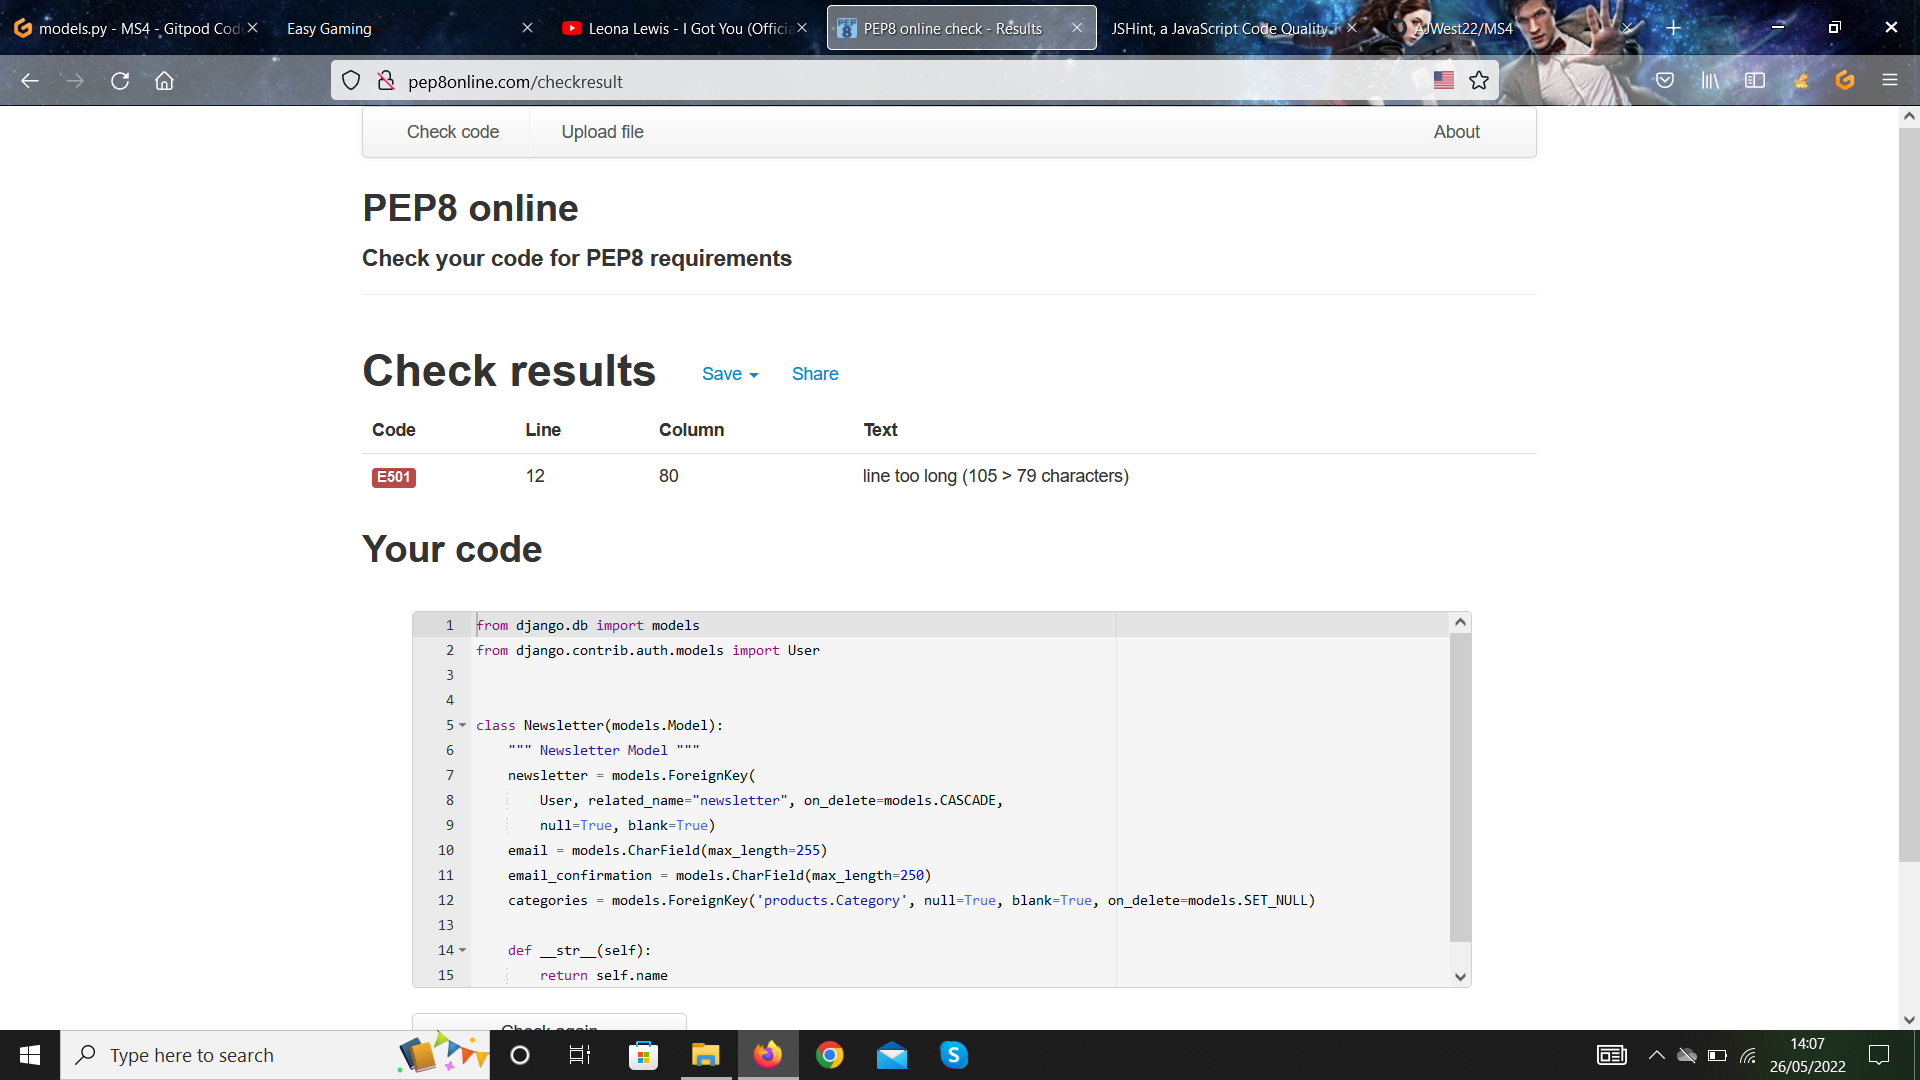
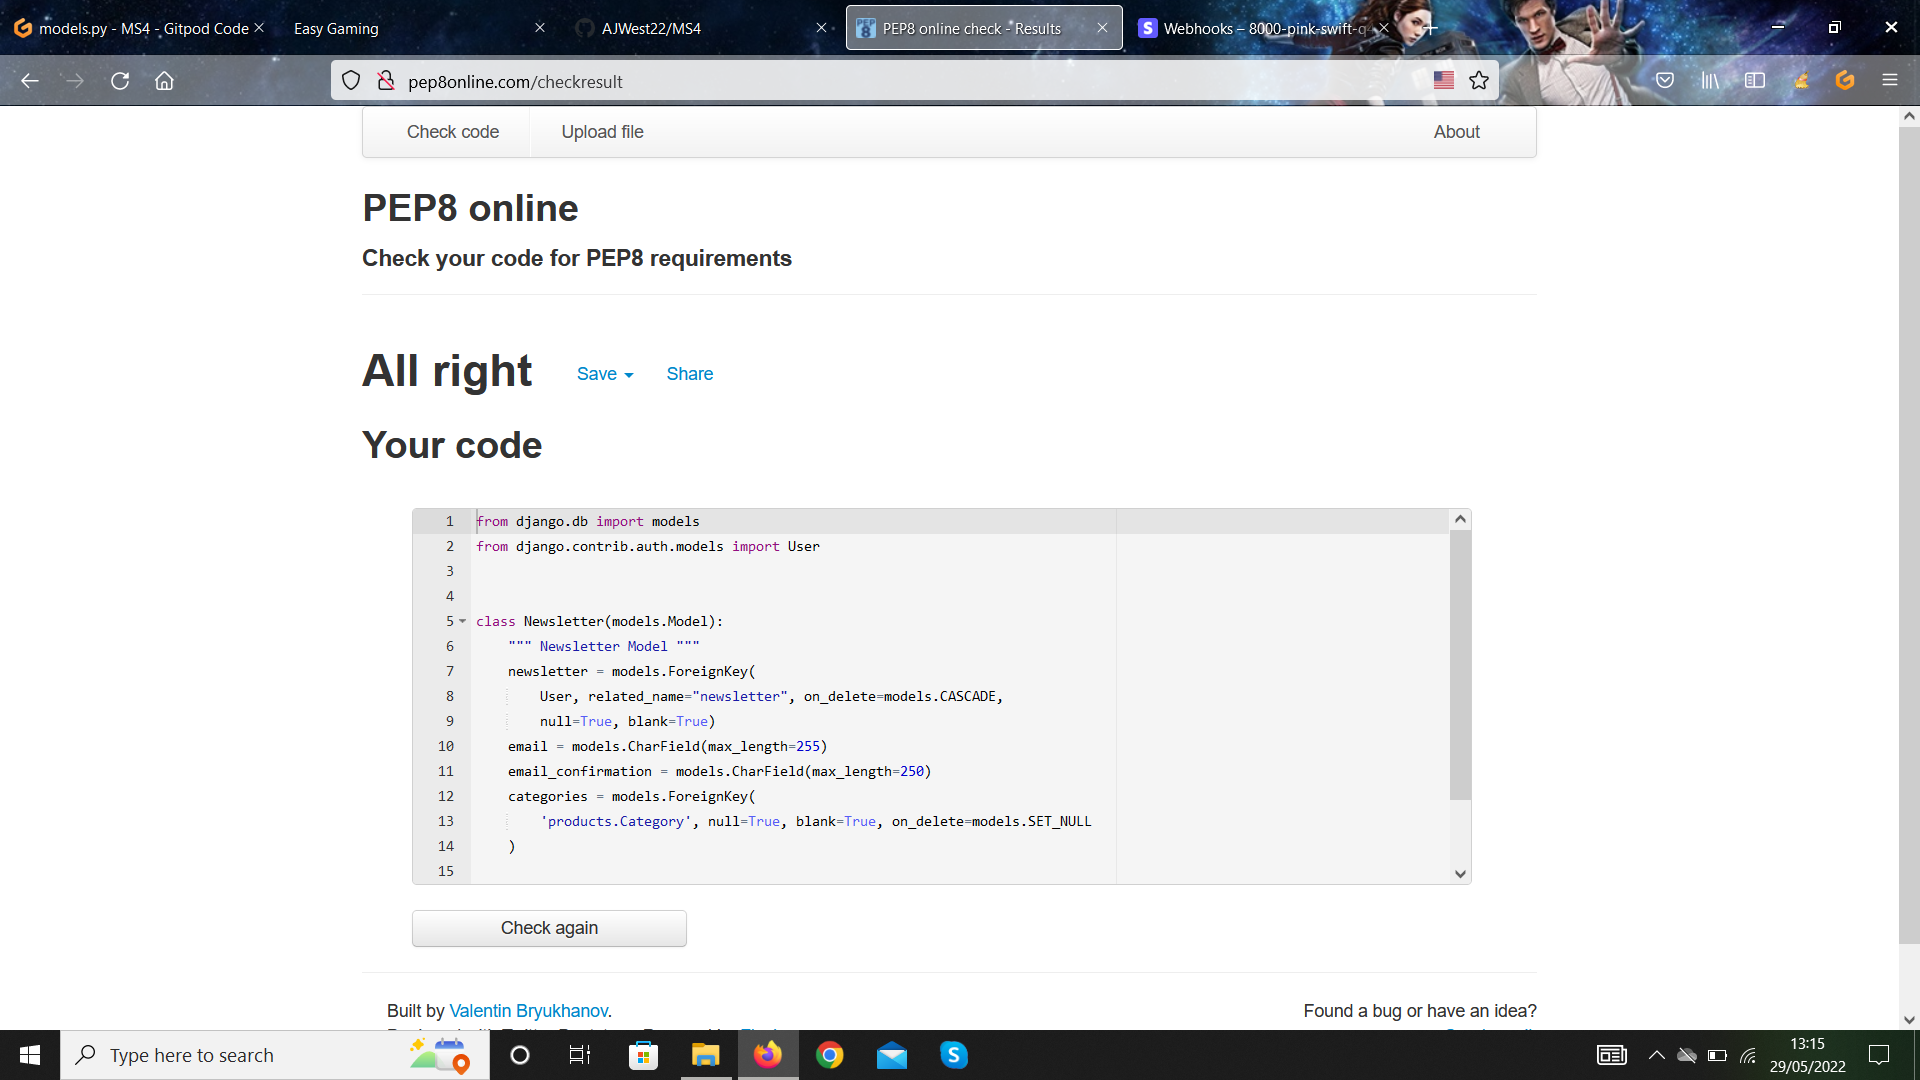
Correct Python files in Newsletter app errors and update images in README

diff --git a/newsletter/views.py b/newsletter/views.py
@@ -13,7 +13,10 @@ def newsletter(request):
         if form.is_valid():
             newsletter = form.save()
             newsletter.save()
-            messages.success(request, "You have successfully signed up to our monthly newsletter")
+            messages.success(
+                request, "You have successfully signed up \
+                    to our monthly newsletter"
+            )
             return redirect('home')
         else:
             messages.error(request, 'Sorry, we couldn''t' +

diff --git a/newsletter/models.py b/newsletter/models.py
@@ -9,7 +9,9 @@ class Newsletter(models.Model):
         null=True, blank=True)
     email = models.CharField(max_length=255)
     email_confirmation = models.CharField(max_length=250)
-    categories = models.ForeignKey('products.Category', null=True, blank=True, on_delete=models.SET_NULL)
+    categories = models.ForeignKey(
+        'products.Category', null=True, blank=True, on_delete=models.SET_NULL
+    )
 
     def __str__(self):
         return self.name
